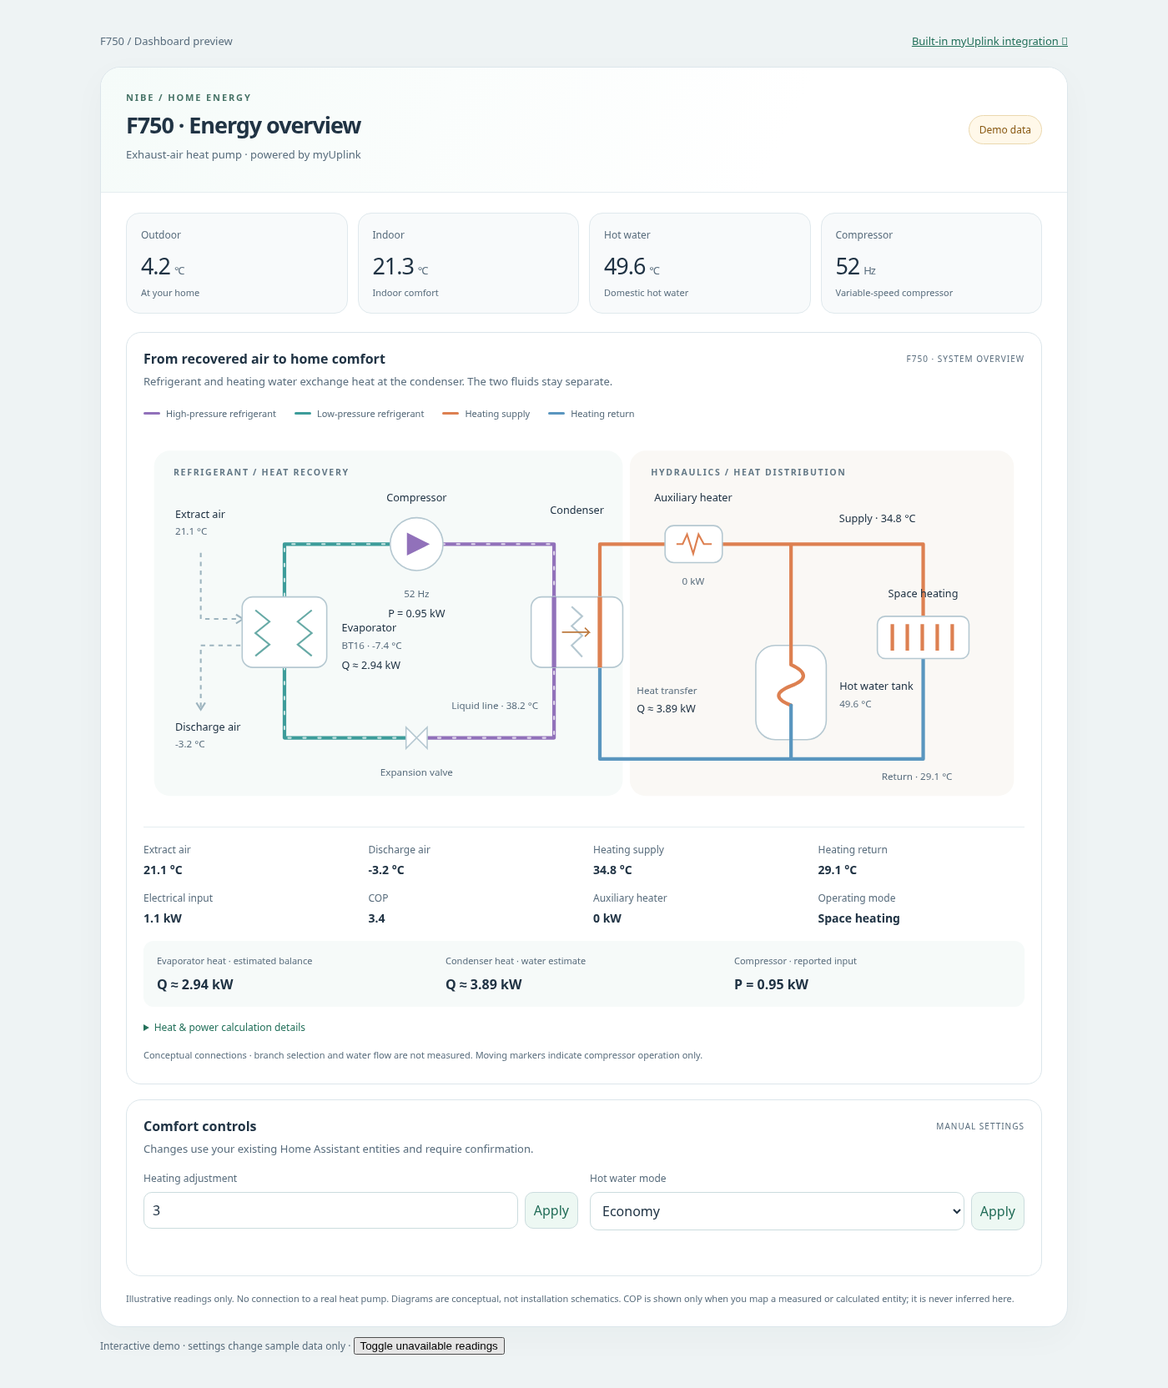
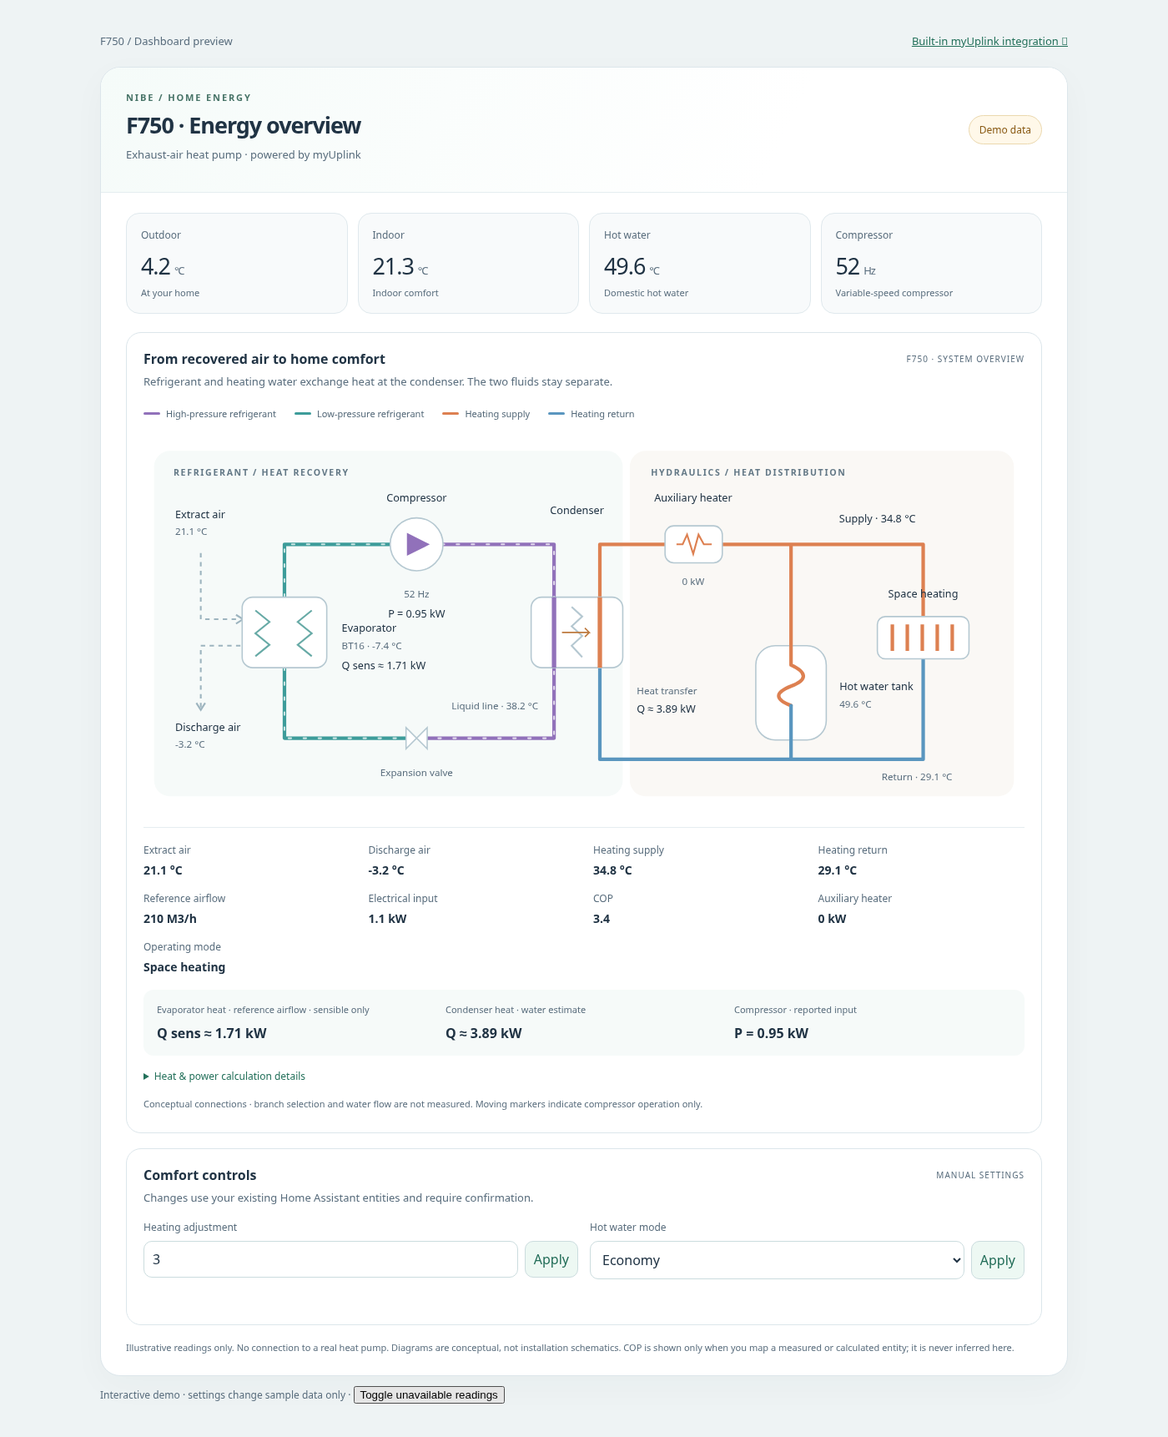
Use reference airflow for sensible evaporator heat estimate

diff --git a/dist/nibe-f750-card.js b/dist/nibe-f750-card.js
@@ -11,10 +11,11 @@ const readings = {
   compressor_power: ['Compressor input power', 'kW'], water_flow: ['Condenser water flow', ''],
   condenser_water_out: ['Condenser water outlet', '°C'], air_flow: ['Extract airflow', ''],
   compressor_energy: ['Compressor energy', 'kWh'],
+  reference_air_flow: ['Reference airflow', ''],
 };
 // F750 parameter IDs; myUplink unique IDs are `${device_id}-${parameter_id}`.
 // References and compatibility notes: docs/discovery.md.
-const points = {outdoor:['40004'],room:['40033'],hot_water:['40013','40014'],supply:['40008'],return:['40012'],exhaust_air:['40025'],leaving_air:['40026'],evaporator:['40020'],condenser:['40019'],compressor_frequency:['43136'],heater_power:['43084'],operation:['49994'],compressor_power:['43141'],water_flow:['40072'],condenser_water_out:['40017'],air_flow:['40050'],compressor_energy:['43144']};
+const points = {outdoor:['40004'],room:['40033'],hot_water:['40013','40014'],supply:['40008'],return:['40012'],exhaust_air:['40025'],leaving_air:['40026'],evaporator:['40020'],condenser:['40019'],compressor_frequency:['43136'],heater_power:['43084'],operation:['49994'],compressor_power:['43141'],water_flow:['40072'],condenser_water_out:['40017'],air_flow:['40050'],compressor_energy:['43144'],reference_air_flow:['43124']};
 // API names can vary from the older F-series register catalog. Match only
 // explicit measurement names/BT designations, scoped to the selected device.
 const aliases = {
@@ -35,6 +36,7 @@ const aliases = {
   condenser_water_out: [/(?:^| )bt12 (?:condensor|condenser) out$/, /(?:^| )condenser (?:water outlet|outlet temperature)(?: bt12)?$/],
   air_flow: [/(?:^| )bs1 air flow$/, /(?:^| )(?:extract|exhaust) air ?flow$/],
   compressor_energy: [/(?:^| )(?:total )?compressor (?:energy|energy total|time factor)$/, /(?:^| )compr energy total$/],
+  reference_air_flow: [/(?:^| )reference air speed sensor$/, /(?:^| )reference air ?flow$/, /(?:^| )air ?flow (?:ref|reference)$/],
 };
 const normalize = text => String(text || '').toLowerCase().replace(/[\u00ad]/g,'').replace(/[^a-z0-9]+/g,' ').trim();
 export function discoverEntities(registry, deviceId, states = {}) {
@@ -95,10 +97,12 @@ export function calculateHeat(states, entities, energyAverage = null) {
   const compressor=reported??average?.power??null;
   const air=read('air_flow','flow'), extract=read('exhaust_air','temperature'), discharge=read('leaving_air','temperature');
   const sensible=air!==null && air>=0 && extract!==null && discharge!==null && extract>=discharge ? 1.2*1.006*air*(extract-discharge) : null;
+  const reference=read('reference_air_flow','flow');
+  const referenceSensible=reference!==null && reference>=0 && extract!==null && discharge!==null && extract>=discharge ? 1.2*1.006*reference*(extract-discharge) : null;
   // Approximate steady-state balance. Electrical input is not shaft work;
   // casing/motor losses and thermal storage are not resolved by these sensors.
   const balance=qCondenser!==null && reported!==null && qCondenser>=reported && reported>0 ? qCondenser-reported : null;
-  return {compressor,compressorMethod:reported!==null?'reported':average?'energy-average':null,averageMinutes:reported===null?average?.minutes:null,qCondenser,qEvaporator:balance??sensible,evaporatorMethod:balance!==null?'balance':sensible!==null?'sensible':null};
+  return {compressor,compressorMethod:reported!==null?'reported':average?'energy-average':null,averageMinutes:reported===null?average?.minutes:null,qCondenser,qEvaporator:referenceSensible??balance??sensible,evaporatorMethod:referenceSensible!==null?'reference-sensible':balance!==null?'balance':sensible!==null?'sensible':null};
 }
 const css = `
 :host{container-type:inline-size;display:block;color:#203344;color-scheme:light;font-family:var(--paper-font-body1_-_font-family,Inter,system-ui,sans-serif);--primary-text-color:#203344;--secondary-text-color:#596d7d;--ha-card-background:#fff;--divider-color:#dce6eb}*{box-sizing:border-box}
@@ -258,7 +262,7 @@ export class NibeF750Card extends HTMLElement {
       <text x="36" y="342">Discharge air</text><text class="muted" x="36" y="361">${this.value('leaving_air')} ${this.unit('leaving_air')}</text>
       <rect class="node" x="112" y="190" width="96" height="80" rx="12"/>
       <path d="M127 205L143 218L127 231L143 244L127 257M191 205L175 218L191 231L175 244L191 257" fill="none" stroke="#67aaa6" stroke-width="2"/>
-      <text x="225" y="229">Evaporator</text><text class="muted" x="225" y="249">BT16 · ${this.value('evaporator')} ${this.unit('evaporator')}</text><text x="225" y="272">Q ≈ ${this.heatValue('qEvaporator')}</text>
+      <text x="225" y="229">Evaporator</text><text class="muted" x="225" y="249">BT16 · ${this.value('evaporator')} ${this.unit('evaporator')}</text><text x="225" y="272">${['reference-sensible','sensible'].includes(this._heat.evaporatorMethod)?'Q sens ≈':'Q ≈'} ${this.heatValue('qEvaporator')}</text>
       <circle class="node" cx="310" cy="130" r="30"/><path d="M299 143L325 130L299 117Z" fill="#9171ba"/>
       <text x="310" y="81" text-anchor="middle">Compressor</text><text class="muted" x="310" y="190" text-anchor="middle">${this.value('compressor_frequency')} ${this.unit('compressor_frequency')}</text><text x="310" y="213" text-anchor="middle">${this._heat.compressorMethod==='energy-average'?'P avg ≈':'P ='} ${this.heatValue('compressor')}</text>
       <path class="node" d="M298 338L322 362V338L298 362Z"/>
@@ -294,10 +298,10 @@ export class NibeF750Card extends HTMLElement {
       <path class="pipe ${flow}" d="M70 160V105H270V320H70V226"/>
       <rect class="node" x="40" y="160" width="60" height="66" rx="12"/>
       <path d="M50 172L61 184L50 196L61 211M89 172L78 184L89 196L78 211" fill="none" stroke="#67aaa6" stroke-width="2"/>
-      <text x="115" y="188">Evaporator</text><text class="muted" x="115" y="209">${this.value('evaporator')} ${this.unit('evaporator')}</text><text x="115" y="230">Q ≈ ${this.heatValue('qEvaporator')}</text>
+      <text x="115" y="188">Evaporator</text><text class="muted" x="115" y="209">${this.value('evaporator')} ${this.unit('evaporator')}</text><text x="115" y="230">${['reference-sensible','sensible'].includes(this._heat.evaporatorMethod)?'Q sens ≈':'Q ≈'} ${this.heatValue('qEvaporator')}</text>
       <text class="muted" x="22" y="64">Extract air · ${this.value('exhaust_air')} ${this.unit('exhaust_air')}</text>
       <path class="air" d="M26 71V185H39M39 208H22V239"/>
-      <text class="muted" x="115" y="242">Discharge air</text><text class="muted" x="115" y="261">${this.value('leaving_air')} ${this.unit('leaving_air')}</text>
+      <text class="muted" x="115" y="246">Discharge air</text><text class="muted" x="115" y="265">${this.value('leaving_air')} ${this.unit('leaving_air')}</text>
       <circle class="node" cx="170" cy="105" r="24"/><path d="M161 116L184 105L161 94Z" fill="#9171ba"/>
       <text x="170" y="82" text-anchor="middle">Compressor</text><text class="muted" x="170" y="146" text-anchor="middle">${this.value('compressor_frequency')} ${this.unit('compressor_frequency')}</text><text x="170" y="167" text-anchor="middle">${this._heat.compressorMethod==='energy-average'?'P avg ≈':'P ='} ${this.heatValue('compressor')}</text>
       <path class="node" d="M59 271L81 289H59L81 271Z"/><text class="muted" x="93" y="284">Expansion valve</text>
@@ -322,9 +326,9 @@ export class NibeF750Card extends HTMLElement {
       <text x="91" y="675">Hot water tank</text><text class="muted" x="91" y="697">${this.value('hot_water')} ${this.unit('hot_water')}</text>
       <text class="muted" x="170" y="779" text-anchor="middle">Return · ${this.value('return')} ${this.unit('return')}</text>
       </svg></div>
-      <div class="metrics">${['exhaust_air','leaving_air','supply','return','electrical_power','cop','heater_power','operation'].map(k=>this.metric(k)).join('')}</div>
-      <div class="heat-summary"><div><span>Evaporator heat · ${this._heat.evaporatorMethod==='balance'?'estimated balance':this._heat.evaporatorMethod==='sensible'?'sensible air only':'needs measurements'}</span><b>Q ≈ ${this.heatValue('qEvaporator')}</b></div><div><span>Condenser heat · water estimate</span><b>Q ≈ ${this.heatValue('qCondenser')}</b></div><div><span>Compressor · ${this._heat.compressorMethod==='reported'?'reported input':this._heat.compressorMethod==='energy-average'?`${Math.round(this._heat.averageMinutes)} min energy average`:'needs power or energy history'}</span><b>${this._heat.compressorMethod==='energy-average'?'P avg ≈':'P ='} ${this.heatValue('compressor')}</b></div></div>
-      <details class="heat-details"><summary>Heat & power calculation details</summary><p>Condenser Q needs measured water flow (BF1), condenser water outlet (BT12) and return (BT3). Heating supply BT2 can include auxiliary heat, so it is not used for this calculation.</p><p>Evaporator Q uses Q condenser − P compressor only with a positive current power reading. Averaged compressor power is not mixed with current condenser heat. This is an approximate steady-state balance that neglects losses and stored heat. Without these inputs, airflow (BS1) and extract/discharge temperatures give sensible heat only; condensation and frost heat are excluded.</p><p>Compressor P uses current input power if exposed. Otherwise a compressor-only energy counter (kWh or Wh) and Home Assistant history give average P = Δenergy / Δtime over roughly 10 minutes. This average is not instantaneous and may include compressor-off periods. Unitless time factors are not treated as energy. If neither source is available, power cannot be identified from the current telemetry alone. Missing readings or unsupported units show —. Water estimates assume pure water; cloud samples are not synchronized.</p></details>
+      <div class="metrics">${['exhaust_air','leaving_air','supply','return','reference_air_flow','electrical_power','cop','heater_power','operation'].map(k=>this.metric(k)).join('')}</div>
+      <div class="heat-summary"><div><span>Evaporator heat · ${this._heat.evaporatorMethod==='reference-sensible'?'reference airflow · sensible only':this._heat.evaporatorMethod==='balance'?'estimated balance':this._heat.evaporatorMethod==='sensible'?'sensible air only':'needs measurements'}</span><b>${['reference-sensible','sensible'].includes(this._heat.evaporatorMethod)?'Q sens ≈':'Q ≈'} ${this.heatValue('qEvaporator')}</b></div><div><span>Condenser heat · water estimate</span><b>Q ≈ ${this.heatValue('qCondenser')}</b></div><div><span>Compressor · ${this._heat.compressorMethod==='reported'?'reported input':this._heat.compressorMethod==='energy-average'?`${Math.round(this._heat.averageMinutes)} min energy average`:'needs power or energy history'}</span><b>${this._heat.compressorMethod==='energy-average'?'P avg ≈':'P ='} ${this.heatValue('compressor')}</b></div></div>
+      <details class="heat-details"><summary>Heat & power calculation details</summary><p>Condenser Q needs measured water flow (BF1), condenser water outlet (BT12) and return (BT3). Heating supply BT2 can include auxiliary heat, so it is not used for this calculation.</p><p>When reference airflow is available in volume/time units, evaporator Q uses reference airflow × (extract − discharge air temperature) × air density × heat capacity. This is a reference-flow sensible-heat estimate, not measured total evaporator heat. It excludes condensation and freezing heat, and reference airflow may differ from actual flow during frost buildup or ventilation changes. Otherwise Q condenser − P compressor is used only with a positive current power reading. Averaged compressor power is not mixed with current condenser heat. This is an approximate steady-state balance that neglects losses and stored heat. Without either source, measured airflow (BS1) and extract/discharge temperatures give sensible heat only; condensation and frost heat are excluded.</p><p>Compressor P uses current input power if exposed. Otherwise a compressor-only energy counter (kWh or Wh) and Home Assistant history give average P = Δenergy / Δtime over roughly 10 minutes. This average is not instantaneous and may include compressor-off periods. Unitless time factors are not treated as energy. If neither source is available, power cannot be identified from the current telemetry alone. Missing readings or unsupported units show —. Water estimates assume pure water; cloud samples are not synchronized.</p></details>
       <p class="sub" style="margin-top:16px">Conceptual connections · branch selection and water flow are not measured. Moving markers indicate compressor operation only.</p></section>
       <section class="panel controls"><div class="heading"><h2>Comfort controls</h2><span class="tag">Manual settings</span></div><p>Changes use your existing Home Assistant entities and require confirmation.</p><div class="control-grid">${this.control('heating','Heating adjustment')}${this.control('hot_water','Hot water mode')}</div><div class="notice" role="status" aria-live="polite"></div></section>
 

diff --git a/demo/index.html b/demo/index.html
@@ -2,8 +2,8 @@
 <html lang="en"><head><meta charset="utf-8"><meta name="viewport" content="width=device-width, initial-scale=1"><title>NIBE F750 · Dashboard preview</title><style>body{margin:0;background:#eef3f4;color:#203344;font-family:Inter,system-ui,sans-serif}main{max-width:1160px;margin:40px auto;padding:0 18px}nav{display:flex;justify-content:space-between;margin-bottom:22px;font-size:13px;color:#596d7d}a{color:#24715b}h1{font-weight:500}button{cursor:pointer}</style></head><body><main><nav><span>F750 / Dashboard preview</span><a href="https://www.home-assistant.io/integrations/myuplink/">Built-in myUplink integration ↗</a></nav><nibe-f750-card></nibe-f750-card><p style="font-size:12px;color:#596d7d">Interactive demo · settings change sample data only · <button id="unavailable">Toggle unavailable readings</button></p></main><script type="module">
 import '../dist/nibe-f750-card.js';
 const card = document.querySelector('nibe-f750-card');
-const values = {outdoor:4.2,room:21.3,hot_water:49.6,supply:34.8,return:29.1,exhaust_air:21.1,leaving_air:-3.2,evaporator:-7.4,condenser:38.2,compressor_frequency:52,heater_power:0,electrical_power:1.1,cop:3.4,compressor_power:950,water_flow:10,condenser_water_out:34.7,air_flow:180,operation:'Space heating'};
-const units = {compressor_frequency:'Hz',heater_power:'kW',electrical_power:'kW',cop:'',operation:'',compressor_power:'W',water_flow:'l/min',condenser_water_out:'°C',air_flow:'m³/h'};
+const values = {outdoor:4.2,room:21.3,hot_water:49.6,supply:34.8,return:29.1,exhaust_air:21.1,leaving_air:-3.2,evaporator:-7.4,condenser:38.2,compressor_frequency:52,heater_power:0,electrical_power:1.1,cop:3.4,compressor_power:950,water_flow:10,condenser_water_out:34.7,air_flow:180,reference_air_flow:210,operation:'Space heating'};
+const units = {compressor_frequency:'Hz',heater_power:'kW',electrical_power:'kW',cop:'',operation:'',compressor_power:'W',water_flow:'l/min',condenser_water_out:'°C',air_flow:'m³/h',reference_air_flow:'M3/h'};
 const states = Object.fromEntries(Object.entries(values).map(([key,value])=>[`sensor.demo_${key}`,{state:String(value),attributes:{unit_of_measurement:units[key]??'°C'}}]));
 states['number.demo_heating']={state:'0',attributes:{min:-10,max:10,step:1,friendly_name:'Heating curve offset'}};
 states['select.demo_hot_water']={state:'Normal',attributes:{options:['Economy','Normal','Luxury'],friendly_name:'Hot water comfort'}};

diff --git a/docs/heat-calculations.md b/docs/heat-calculations.md
@@ -24,19 +24,27 @@ No default frequency-to-power curve is supplied: no verified F750 operating-poin
 
 Inputs: BF1 EP14 flow (40072), BT12 condenser water outlet (40017), BT3 return (40012). Uses BT12 rather than heating supply BT2, which can include auxiliary heat. Assumes pure water with fixed density and heat capacity; glycol, incorrect flow calibration and sensor offsets change accuracy. A positive water-side heat rate can persist during residual heat transfer after compressor shutdown. It is not a certified heat meter.
 
-## Evaporator Q: estimated balance, or sensible air heat
+## Evaporator Q: reference-airflow sensible estimate
 
-When condenser Q and a positive **current** compressor P reading are available and Q_cond ≥ P:
+The card automatically discovers `sensor.vp_reference_air_speed_sensor` (including equivalent prefixed/renamed entities on the selected myUplink device). The owner confirms that this entity has volume-flow units, M3/h. Discovery uses parameter 43124 or explicit reference-airflow name aliases; no fixed installation prefix is required.
 
-`Q_evap ≈ Q_cond − P_comp`
+When this reference airflow is available with supported volume/time units, it takes precedence for evaporator Q:
 
-This approximate steady-state energy balance neglects motor/casing losses and changes in stored heat. Electrical input is used as an approximation for energy entering the refrigerant cycle; this is not a direct refrigerant enthalpy measurement. During starts, stops, defrost and asynchronous cloud updates it may be inaccurate. The card labels it **estimated balance**. Energy-derived average power is deliberately excluded from this instantaneous balance; otherwise historical electrical input would be mixed with current water-side output.
+`Q_evap,sensible [kW] ≈ 1.2 [kg/m³] × 1.006 [kJ/(kg·K)] × reference_airflow [m³/s] × (BT20 − BT21) [K]`
 
-Otherwise, if BS1 airflow (40050), extract temperature BT20 (40025) and discharge temperature BT21 (40026) are available:
+Equivalently, for m³/h: `Q ≈ 0.000335333 × airflow × temperature_drop`.
 
-`Q_evap,sensible [kW] ≈ 1.2 [kg/m³] × 1.006 [kJ/(kg·K)] × airflow [m³/s] × (BT20 − BT21) [K]`
+It is labeled **reference airflow · sensible only**, with **Q sens** in the diagram. This uses a reference value rather than confirmed current flow. Frost buildup, dirty filters, ventilation changes and defrost can make actual flow differ. The sensible calculation excludes condensation/freezing heat and humidity effects; it is not total refrigerant evaporator capacity. It uses constant air density and heat capacity. It must not be used to infer compressor power by subtracting it from condenser Q.
 
-This is **sensible air heat only**, not total evaporator capacity: it excludes condensation/freezing heat, humidity effects and defrost. It uses constant air density and heat capacity. It must not be treated as a complete COP measurement or used to infer compressor power by subtracting it from condenser Q.
+The reference airflow value and its declared unit are also displayed with the readings so the source can be checked. M3/h, m3/h and m³/h are accepted. Percentages, m/s velocity and unitless values are not assumed to be volume flow.
+
+### Other available inputs
+
+If reference airflow cannot be used, the existing alternatives remain:
+
+- Condenser Q and positive **current** compressor P, with Q_cond ≥ P: `Q_evap ≈ Q_cond − P_comp`. This approximate steady-state balance neglects motor/casing losses and changes in stored heat; the label is **estimated balance**. Energy-derived average power is excluded to avoid mixing historical electrical input with current water-side output.
+- Otherwise, measured BS1 airflow (40050), BT20 and BT21 use the same sensible-air formula, labeled **sensible air only**. This also excludes latent heat.
+- Missing valid inputs leave the result blank.
 
 ## Availability and units
 
@@ -46,7 +54,7 @@ This is **sensible air heat only**, not total evaporator capacity: it excludes c
 - Missing, unavailable, blank, non-numeric or unsupported-unit inputs leave the affected value blank. Negative flow or a reversed temperature difference is not converted to a positive heating rate. Unitless BS1 values are not assigned assumed physical units.
 - Cloud states are sampled asynchronously; calculations do not interpolate or synchronize samples or detect defrost. These are display estimates, not inputs to automatic control. Validate readings against the actual installation before relying on them.
 
-For optional advanced manual mapping, the keys are `compressor_power`, `water_flow`, `condenser_water_out`, `return`, `air_flow`, `exhaust_air` and `leaving_air`, plus optional `compressor_energy`. Normal automatic configuration still needs only `type: custom:nibe-f750-card`.
+For optional advanced manual mapping, the keys are `compressor_power`, `water_flow`, `condenser_water_out`, `return`, `air_flow`, `exhaust_air` and `leaving_air`, plus optional `compressor_energy` and `reference_air_flow`. Normal automatic configuration still needs only `type: custom:nibe-f750-card`.
 
 Source parameter descriptions: [F750 register list](https://github.com/yozik04/nibe/blob/master/nibe/data/f750.csv). Exposure and units in myUplink may vary by firmware and subscription. No assertion is made that every F750 will provide all the inputs.
 

diff --git a/README.md b/README.md
@@ -19,7 +19,7 @@ A Home Assistant custom Lovelace card for a NIBE F750 connected through **Home A
 1. Set up [the built-in myUplink integration](https://www.home-assistant.io/integrations/myuplink/) under **Settings → Devices & services**. Connect your F750 to your myUplink account first. Enter OAuth credentials in Home Assistant, never in this card or the repository.
 2. Available data and writable controls depend on the equipment, firmware, API and subscription. Some entities may need enabling. myUplink normally updates every 60 seconds; this is a cloud dashboard, not real-time telemetry.
 3. Copy `dist/nibe-f750-card.js` to `/config/www/nibe-f750-card.js`.
-4. Under **Settings → Dashboards → Resources**, add `/local/nibe-f750-card.js?v=0.6.0` as a **JavaScript module**. Enable Advanced Mode in your profile if Resources is hidden.
+4. Under **Settings → Dashboards → Resources**, add `/local/nibe-f750-card.js?v=0.7.0` as a **JavaScript module**. Enable Advanced Mode in your profile if Resources is hidden.
 5. Add a manual dashboard card with just:
 
 ```yaml
@@ -51,6 +51,7 @@ Manual mapping is an optional advanced override: providing `entities:` replaces 
 | `compressor_energy` | Optional compressor-only electrical energy counter (Wh/kWh), used with recorder history to calculate average P |
 | `water_flow`, `condenser_water_out` | BF1 condenser water flow and BT12 outlet temperature, used with BT3 return for Q |
 | `air_flow` | BS1 airflow with volume/time units, for the sensible-only evaporator estimate |
+| `reference_air_flow` | Automatically discovers `sensor.vp_reference_air_speed_sensor` and equivalents; takes precedence for a clearly labeled reference-airflow sensible evaporator Q estimate |
 
 `controls.heating` and `controls.hot_water` each accept a writable `number.*` or `select.*` entity. Choose the actual heating offset / hot water comfort setting exposed by your installation. The card calls `number.set_value` or `select.select_option`; it never commands compressor speed directly. A successful service call means the command was sent, not that the heat pump has applied it. Verify the subsequent state. myUplink may require a paid subscription for writes.
 

diff --git a/docs/discovery.md b/docs/discovery.md
@@ -24,6 +24,7 @@ The card excludes disabled entities and other integrations, scopes every match t
 | Compressor energy | 43144 | Optional compressor-only energy; history-derived average P requires Wh/kWh, not hours or a dimensionless time factor |
 | Water flow | 40072 | BF1 EP14 flow, requires physical volume/time units |
 | Condenser water outlet | 40017 | BT12, before auxiliary heating |
+| Reference airflow | 43124 | `reference_air_speed_sensor`, reference airflow / airflow ref aliases; sensible-Q estimate requires physical volume/time units |
 | Airflow | 40050 | BS1, requires physical volume/time units (unitless readings are not assumed to be m³/h) |
 | Heating adjustment | 47011 | Heating curve offset, system 1; writable `number` only |
 | Hot water mode | 47041 | Comfort mode; writable `select` or `number` only |
